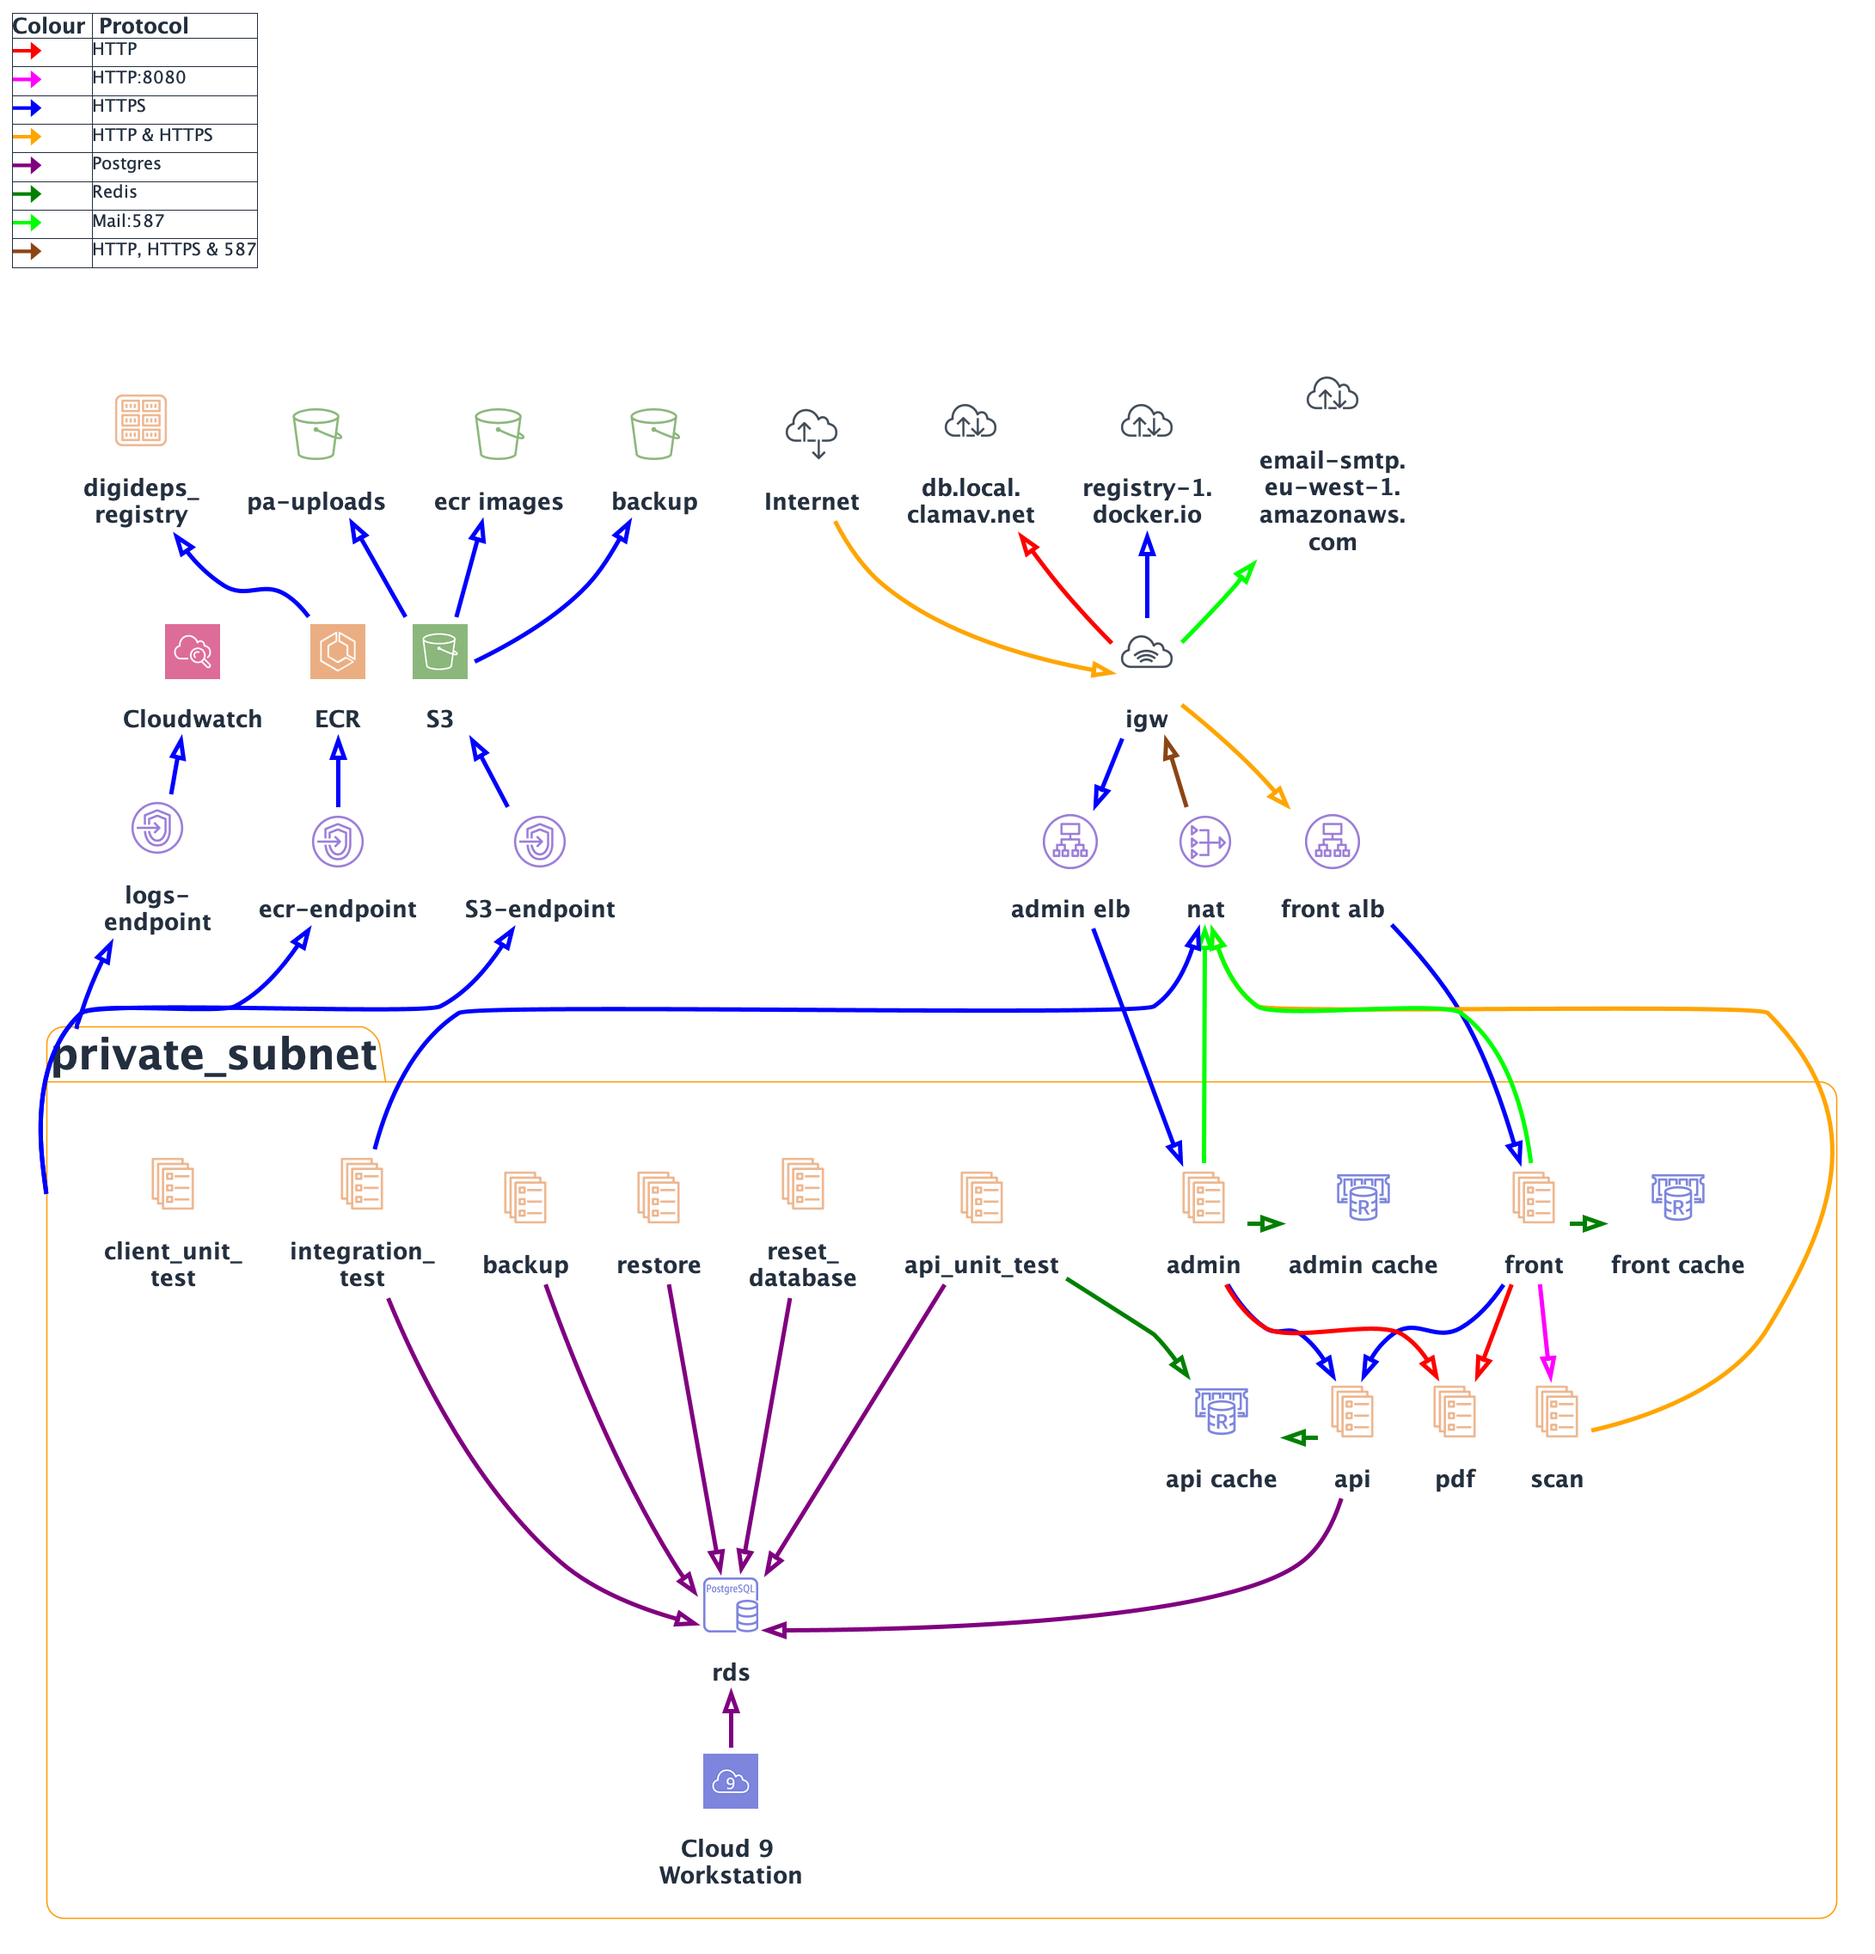
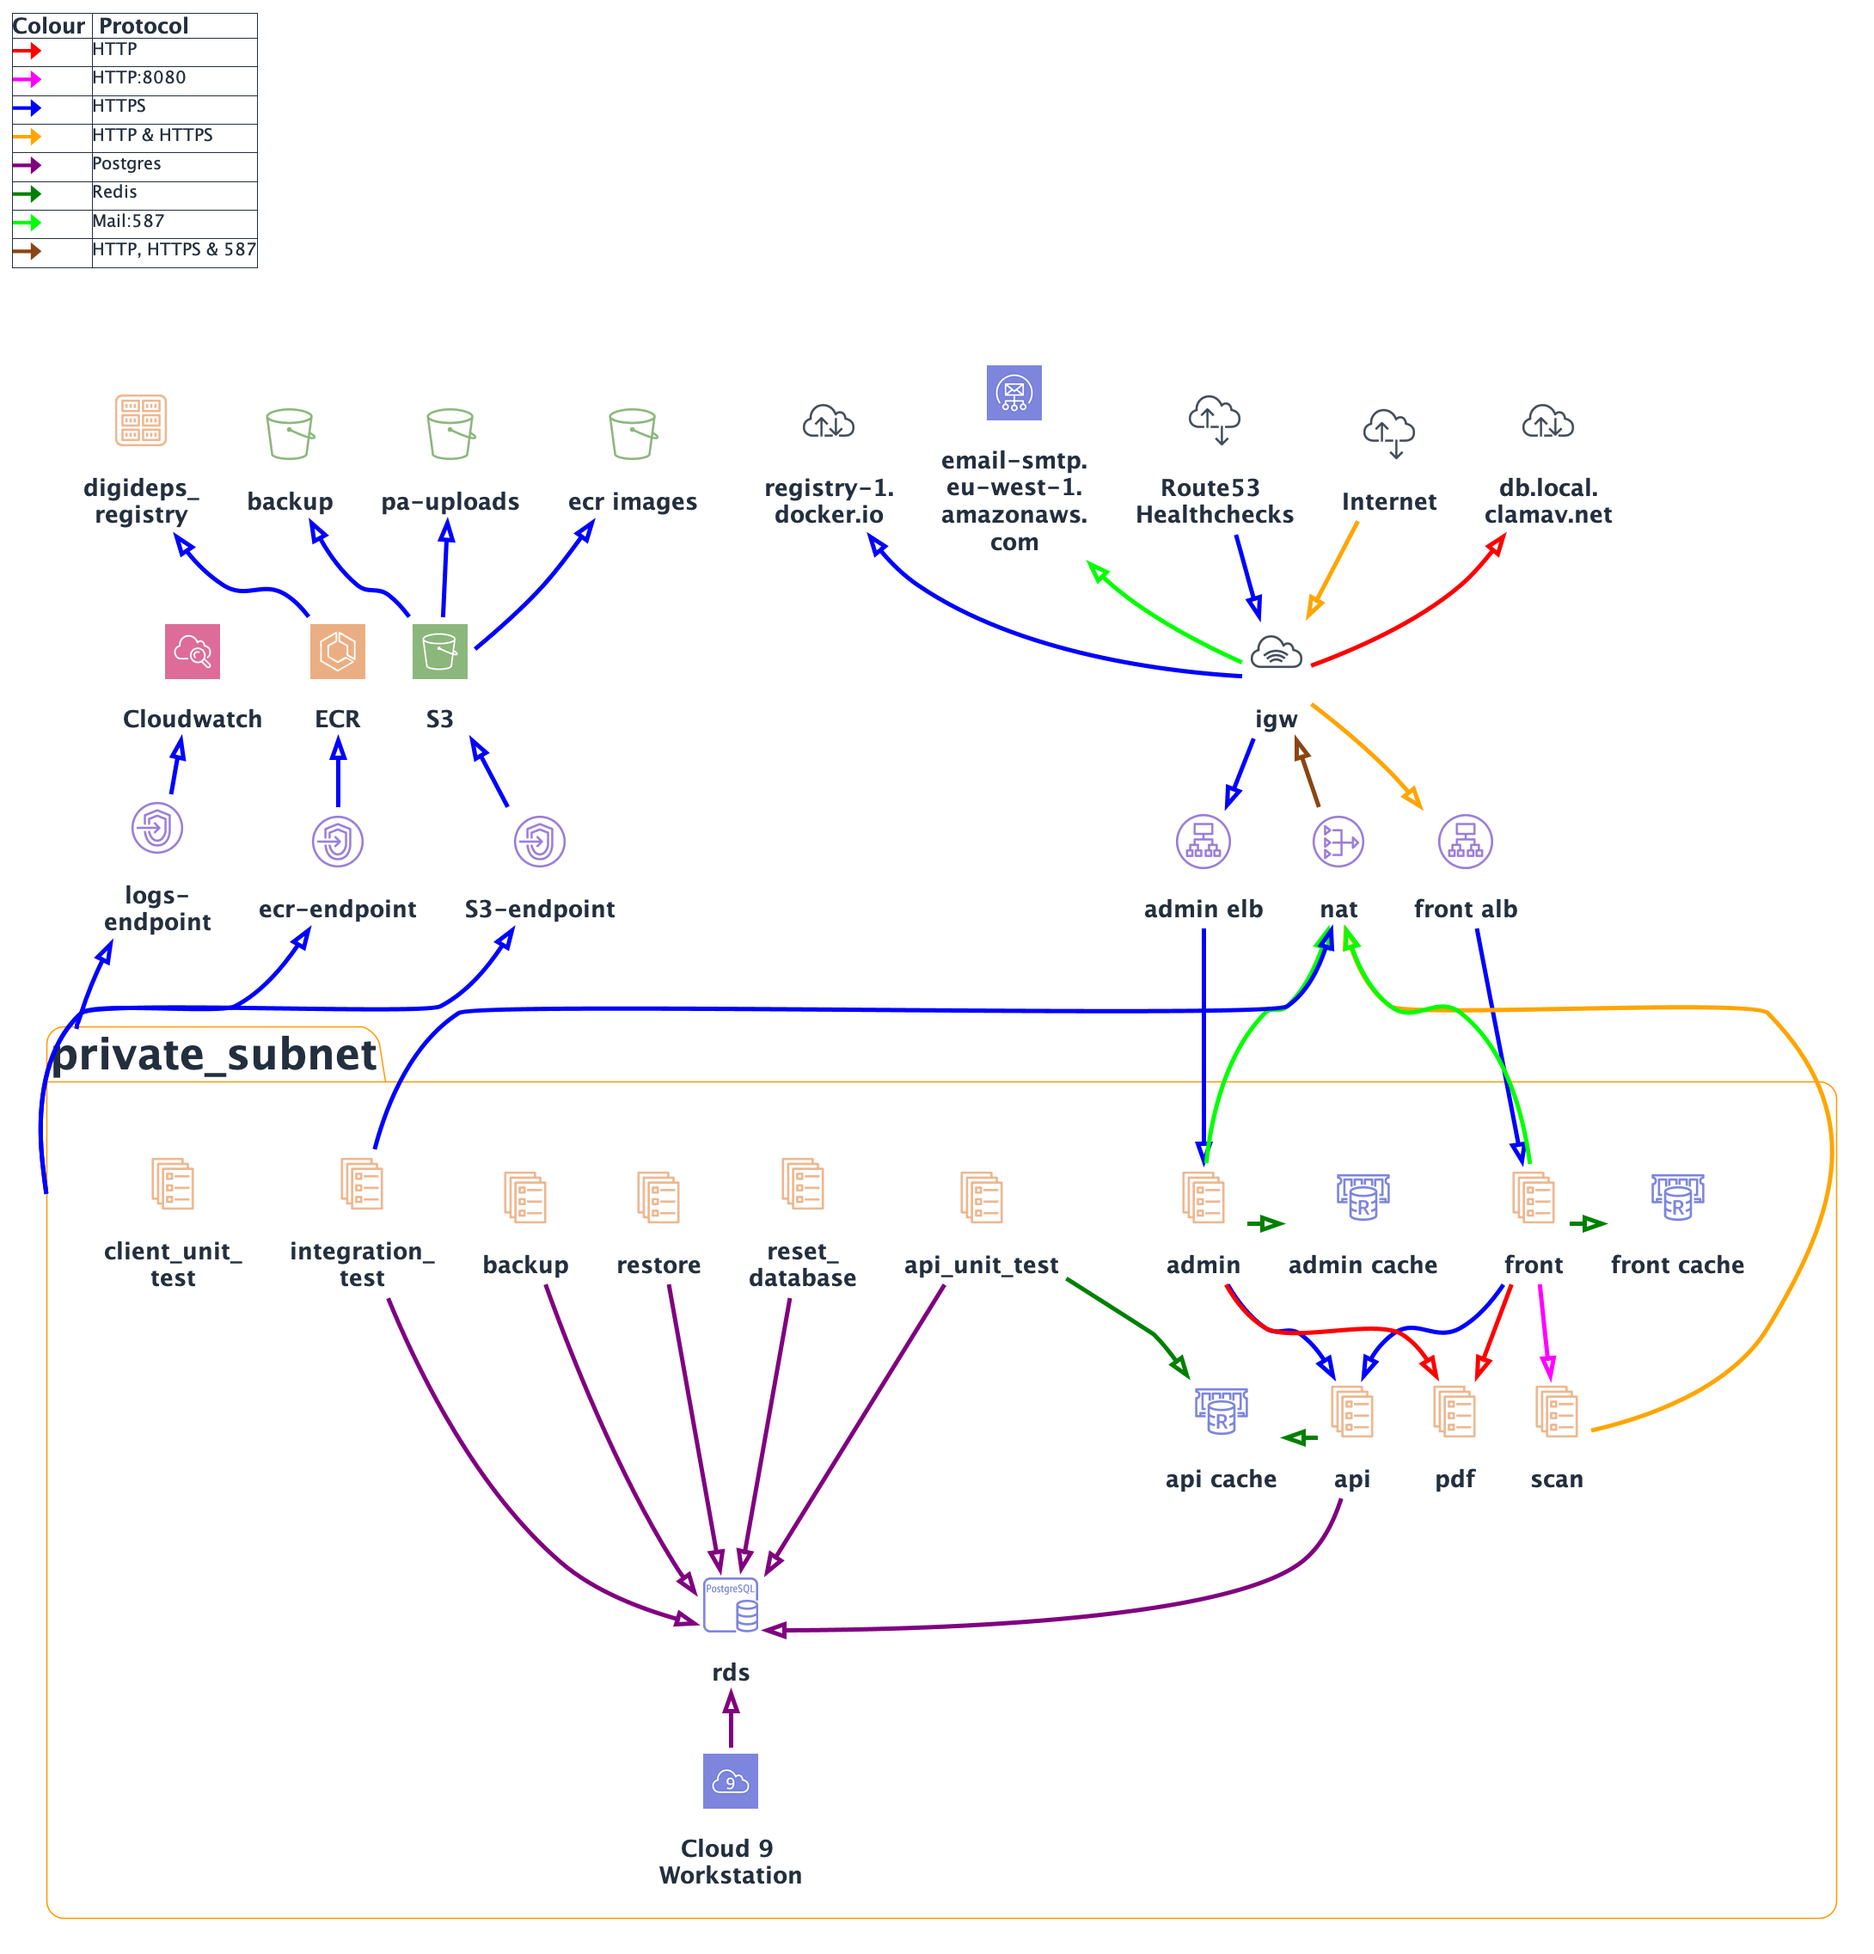
Adds admin healthcheck and udpates PUML traffic diagram

diff --git a/README.md b/README.md
@@ -24,7 +24,7 @@ docker-compose run --rm api sh scripts/resetdb.sh
 
 ![Digideps traffic flow diagram](./docs/traffic_flow_diagram.png)
 
-This diagram can be updated in `traffic_flow_diagram.puml` and then rendered to PNG using `plantuml ./docs/traffic_flow_diagram.puml -o ./docs`.
+This diagram can be updated in `traffic_flow_diagram.puml` and then rendered to PNG using `plantuml ./docs/traffic_flow_diagram.puml -o .`.
 
 ## Terraform installation
 
